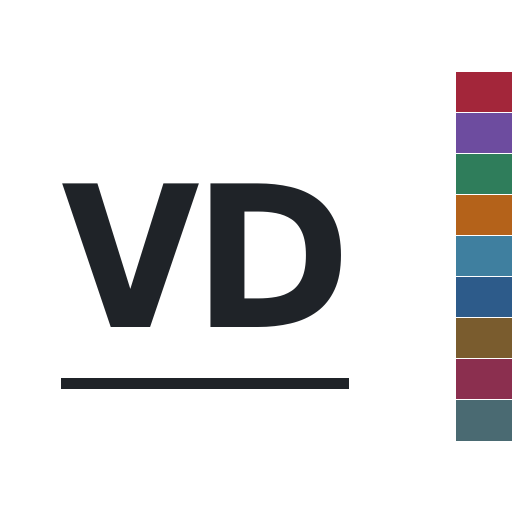
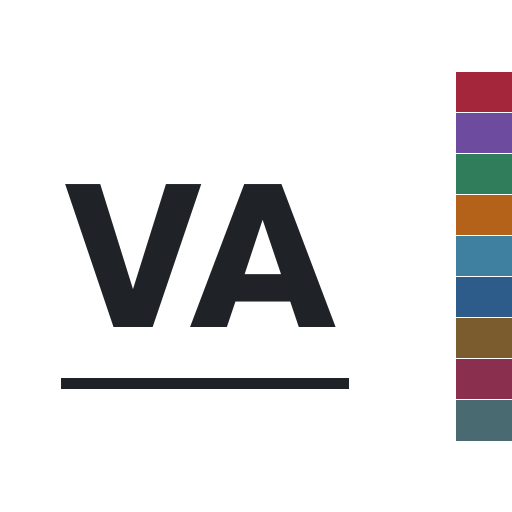
Rename to Vascular Algorithms
Title, home-screen name, in-app wording (map -> algorithm), VA icons; bump service-worker cache so installed copies refresh.

Claude-Session: https://claude.ai/code/session_013AXwpBFRSi9A46VFzUenQK

diff --git a/index.html b/index.html
@@ -3,12 +3,12 @@
 <head>
 <meta charset="utf-8">
 <meta name="viewport" content="width=device-width,initial-scale=1">
-<title>Vascular Decision Maps</title>
+<title>Vascular Algorithms</title>
 <link rel="manifest" href="manifest.webmanifest">
 <meta name="theme-color" content="#ffffff">
 <meta name="description" content="How an experienced vascular surgeon reasons through 46 common decisions. For learning and teaching; not for clinical use.">
 <meta name="apple-mobile-web-app-capable" content="yes">
-<meta name="apple-mobile-web-app-title" content="Vasc maps">
+<meta name="apple-mobile-web-app-title" content="Vasc Algos">
 <meta name="apple-mobile-web-app-status-bar-style" content="default">
 <link rel="apple-touch-icon" href="icons/apple-touch-icon.png">
 <link rel="icon" href="icons/favicon-32.png">
@@ -106,9 +106,9 @@ details.why{margin-top:6px;font-size:15px}
 </head>
 <body>
 <header class="top"><div class="in">
-<div class="thumb" aria-hidden="true"></div><a class="brand" href="#">Vascular decision maps</a>
+<div class="thumb" aria-hidden="true"></div><a class="brand" href="#">Vascular Algorithms</a>
 <div class="tag">How an experienced vascular surgeon reasons through 46 common decisions, one question at a time.</div><p class="status">Pilot for learning and teaching. These show reasoning, not protocols, and are not for clinical use.</p>
-<input class="search" id="q" type="search" placeholder="Search, for example carotid, ulcer or endoleak" aria-label="Search maps" autocomplete="off">
+<input class="search" id="q" type="search" placeholder="Search, for example carotid, ulcer or endoleak" aria-label="Search algorithms" autocomplete="off">
 </div></header>
 <main id="app"></main>
 <script>
@@ -131,9 +131,9 @@ function home(){
   const term=qi.value.trim().toLowerCase();
   let list=M.filter(m=>(filt==='All'||m.g===filt)&&(!term||term.split(/\s+/).every(w=>m._f.includes(w))));
   let h='';
-  if(!term&&filt==='All')h+='<p class="intro">Choose a map. Step through asks one question at a time and ends at an action. Full map shows every step with its reasoning and references.</p>';
+  if(!term&&filt==='All')h+='<p class="intro">Choose an algorithm. Step through asks one question at a time and ends at an action. Full algorithm shows every step with its reasoning and references.</p>';
   h+='<div class="chips">'+['All',...groups].map(g=>`<button class="chip${g===filt?' on':''}" data-g="${esc(g)}">${esc(g==='Trauma, iatrogenic injury and amputation'?'Trauma and amputation':g)}</button>`).join('')+'</div>';
-  if(!list.length)h+='<p class="empty">No maps match “'+esc(term)+'”.</p>';
+  if(!list.length)h+='<p class="empty">No algorithms match “'+esc(term)+'”.</p>';
   groups.forEach(g=>{const L=list.filter(m=>m.g===g);if(!L.length)return;
     h+=`<section class="secblock" style="--c:${L[0].col}"><h2 class="sec">${esc(g)}</h2><ul class="list">`+L.map(m=>`<li><button class="mc" data-s="${m.s}"><b>${esc(m.t)}</b><small>${esc(m.sub.length>120?m.sub.slice(0,117).replace(/\s\S*$/,'')+'…':m.sub)}</small></button></li>`).join('')+'</ul></section>';});
   app.innerHTML=h+FOOT;
@@ -155,8 +155,8 @@ function stepHTML(s){
 let cur=null,mode='step',pos=0,hist=[],trail=[],outcome=null;
 function mapView(m){
   setColour(m);
-  let h=`<button class="back" id="bk">All maps</button><div class="kick">${esc(m.g)}</div><h1>${esc(m.t)}</h1><p class="lede">${esc(m.sub)}</p>`;
-  h+=`<div class="tabs"><button data-m="step"${mode==='step'?' class="on"':''}>Step through</button><button data-m="full"${mode==='full'?' class="on"':''}>Full map</button></div><div id="body"></div>`;
+  let h=`<button class="back" id="bk">All algorithms</button><div class="kick">${esc(m.g)}</div><h1>${esc(m.t)}</h1><p class="lede">${esc(m.sub)}</p>`;
+  h+=`<div class="tabs"><button data-m="step"${mode==='step'?' class="on"':''}>Step through</button><button data-m="full"${mode==='full'?' class="on"':''}>Full algorithm</button></div><div id="body"></div>`;
   if(m.ks)h+=`<div class="ks"><b>Key sources.</b> ${esc(m.ks)}`+(m.refs.length?`<details class="ev"><summary>All references (${m.refs.length})</summary>${rl(m,m.refs.map((_,i)=>i+1))}</details>`:'')+'</div>';
   h+=FOOT;
   app.innerHTML=h;
@@ -179,8 +179,8 @@ function render(){
     h+=`<div class="out c-${o.c}"><span class="ol">${esc(o.l)}</span>${sev(o.c)}<h3>${esc(o.h)}</h3>${o.sub?`<p style="margin:0 0 4px;font-size:13px;opacity:.8">${esc(o.sub)}</p>`:''}<div>${esc(o.t)}</div>${ev(cur,o.r,'Evidence for this branch')}</div>`;
     h+=`<div class="navrow">${pos<total-1?'<button class="btn" id="nx">Next question</button>':''}<button class="btn ghost" id="bb">Back</button><button class="btn ghost" id="rs">Start again</button></div>`;
   } else if(pos>=total){
-    h+=`<div class="qcard"><div class="qcount">End of the map</div><div class="qq">You have reached the end of this pathway.</div><p class="ctx">Real patients often fall between the branches. Use the full map to see the reasoning and evidence at each step.</p></div>`;
-    h+=`<div class="navrow"><button class="btn" id="rs">Start again</button><button class="btn ghost" id="bb">Back</button><button class="btn ghost" id="fm">Open full map</button></div>`;
+    h+=`<div class="qcard"><div class="qcount">End of the algorithm</div><div class="qq">You have reached the end of this pathway.</div><p class="ctx">Real patients often fall between the branches. Use the full map to see the reasoning and evidence at each step.</p></div>`;
+    h+=`<div class="navrow"><button class="btn" id="rs">Start again</button><button class="btn ghost" id="bb">Back</button><button class="btn ghost" id="fm">Open full algorithm</button></div>`;
   } else {
     const s=S[pos];
     h+=`<div class="qcard"><div class="qcount">Step ${pos+1} of ${total}</div>`;

diff --git a/sw.js b/sw.js
@@ -1,4 +1,4 @@
-const V='vdm-v1';
+const V='vdm-v2';
 const CORE=['./','index.html','manifest.webmanifest','icons/icon-192.png','icons/icon-512.png','icons/apple-touch-icon.png','icons/favicon-32.png',
 'fonts/atkinson-hyperlegible-latin-400-normal.woff2','fonts/atkinson-hyperlegible-latin-700-normal.woff2','fonts/atkinson-hyperlegible-latin-400-italic.woff2'];
 self.addEventListener('install',e=>{e.waitUntil(caches.open(V).then(c=>c.addAll(CORE)).then(()=>self.skipWaiting()))});

diff --git a/README.md b/README.md
@@ -1,4 +1,4 @@
-# Vascular decision maps
+# Vascular Algorithms
 
 How an experienced vascular surgeon reasons through 46 common decisions, one question at a time. For learning and teaching; not for clinical use.
 
